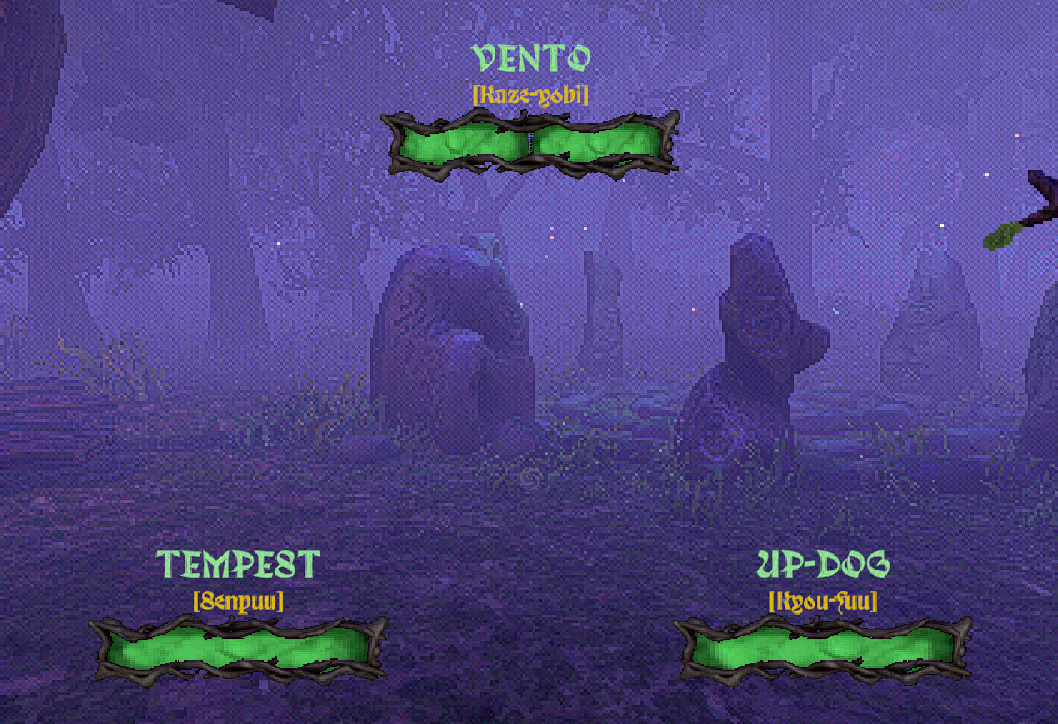
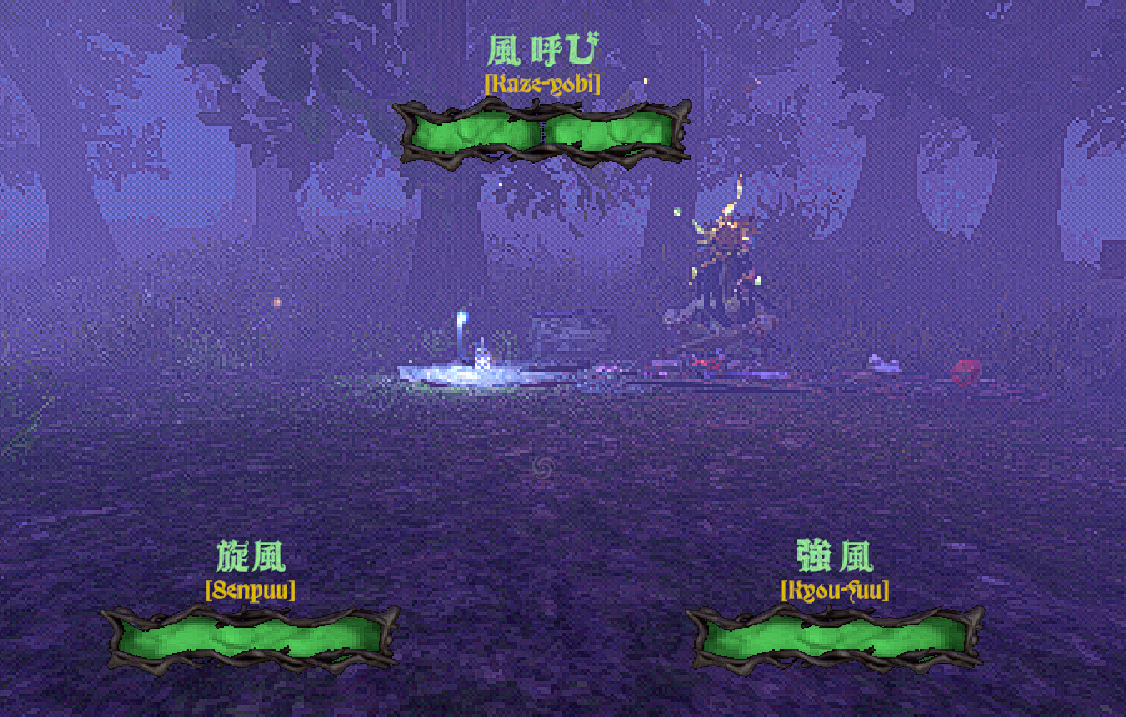
更新至1.1.1，修复乱码并优化文档截图展示
本次更新：
- README/ModREADME 增加截图 img 标签，展示更直观
- 修复中文 README 乱码问题
- 插件版本号升级至 1.1.1（manifest.json、RomajiDisplay.cs）
- 更新 screenshot.png 文件
- BepInPlugin 版本号同步为 1.1.1

diff --git a/RomajiDisplay.cs b/RomajiDisplay.cs
@@ -8,7 +8,7 @@ using System.Collections.Generic;
 using System.IO;
 
 // Format: ("Unique ID", "Display Name", "Version")
-[BepInPlugin("acpass.romajidisplay", "RomajiDisplay", "1.1.0")]
+[BepInPlugin("acpass.romajidisplay", "RomajiDisplay", "1.1.1")]
 public class RomajiDisplay : BaseUnityPlugin
 {
     // Awake is called when the mod is first loaded by the game.

diff --git a/ModREADME.md b/ModREADME.md
@@ -46,7 +46,7 @@ SPELL_BAS_JUMP_1 = [JUMP]
 
 ## Screenshot
 
-![Romaji Display](https://github.com/acpass/YapYapRomajiDisplay/blob/master/assets/screenshot.png)
+<img src="https://github.com/acpass/YapYapRomajiDisplay/blob/master/assets/screenshot.png?raw=true" width="100%">
 
 ---
 
@@ -96,4 +96,4 @@ SPELL_BAS_JUMP_1 = [JUMP]
 
 ## ScreenShot
 
-[法术轮盘显示罗马音](https://github.com/acpass/YapYapRomajiDisplay/blob/master/assets/screenshot.png)
+<img src="https://github.com/acpass/YapYapRomajiDisplay/blob/master/assets/screenshot.png?raw=true" width="100%">
